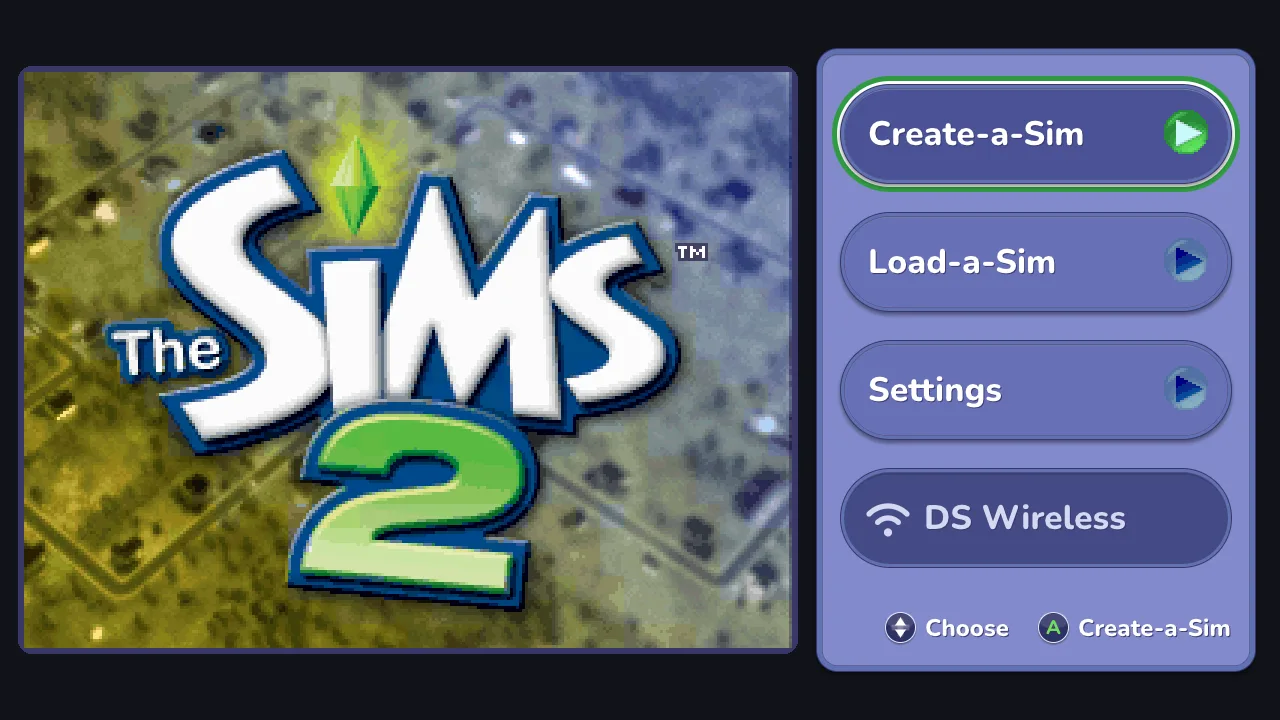
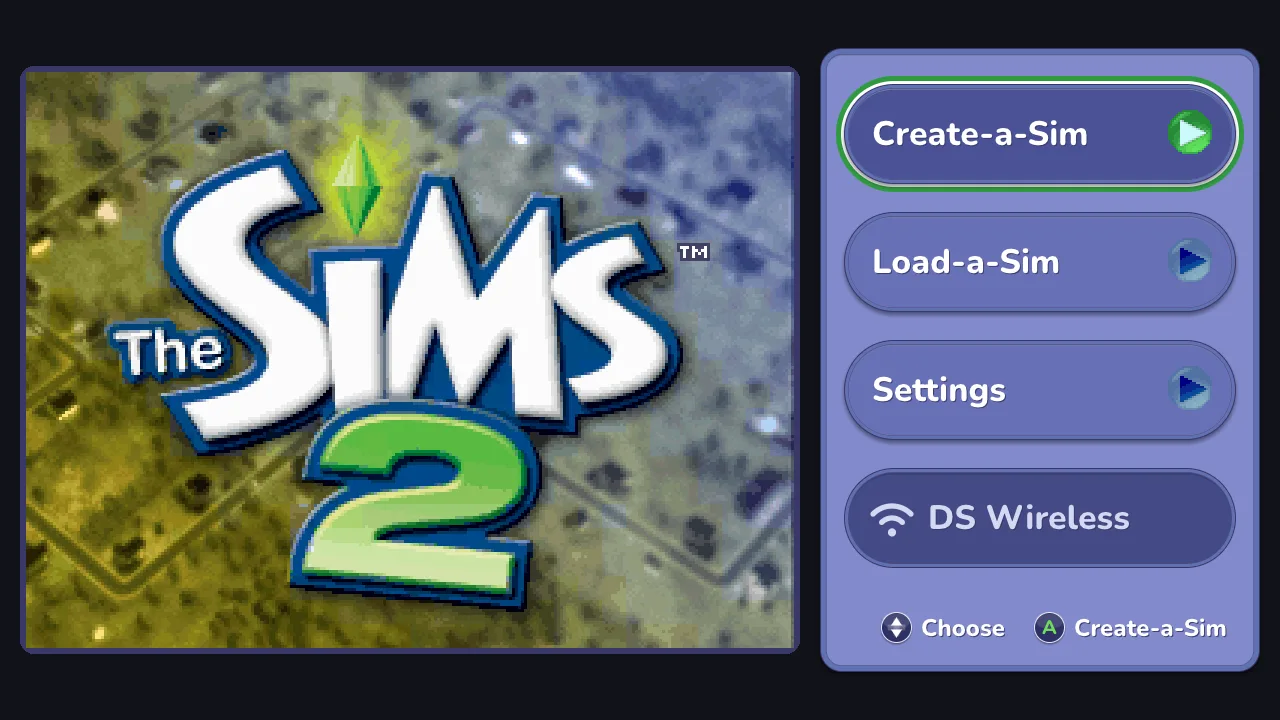
Take every picture again from the final build
All sixteen pictures in docs/screenshots from this branch's build with the dev notes' recipe and
the defaults' look (Pixel). Ten come out byte for byte as they were; six change: the launch
panel under its new title Sims 2 DS HD, Create-a-Sim and the main menu with their panels where
the front end now puts them, the town's prompt, the save states page's slot, and Settings now
on its Graphics tab (3D resolution by name: 384p). The pause menu's picture is headless, which
has no "Open the saves folder": its alt text says where it sits in the window. The recipe in
dev-notes and CONTRIBUTING says which clock and save each state takes, the Pockets run's
--console-menu, the Graphics tab's RB, and that the launch panel's folder is copied before the
pause menu's runs add the real ROM to its recent list.

diff --git a/docs/dev-notes.md b/docs/dev-notes.md
@@ -141,16 +141,19 @@ emptied), `F-hair-s3-40` (the Hair page, the third style), `F-face-5-40` (the fi
 cell); `s3` / `s4` are Create-a-Sim's Name page and Keep this Sim?. Pass `--clock "2026-01-01
 12:00"` to runs from the town states whose output is compared.
 
-The README's and the manual's pictures (`docs/screenshots`, 1280 × 720 webp, game screenshots are allowed): from a
-state on a scratch copy of the complete save, `--headless --frames 120 --layout console --compose --wide --res3d 2
---interp --game-pictures pixel --ui-scale 100 --shot-at 119` (Pixel: the default look) with the state's `--clock`: the town (`town.webp`:
-`L-sit-casino-none-250`, the world prompt after its steady frames), the HD menu (`sit-casino --console-menu
---console-focus 1`), `A-pk-cnt3-slot1` for Pockets (`--console-focus 0`), `s7` for the phone, `s5` the conversation,
+The README's and the manual's pictures (`docs/screenshots`, 1280 × 720 webp, game screenshots are allowed), all
+sixteen taken again together from one build: `--headless --frames 120 --layout console --compose --wide --res3d 2
+--interp --game-pictures pixel --ui-scale 100 --shot-at 119` (the defaults' look), the complete save's states on a
+scratch copy of it with its clock (`2026-11-05 12:05`), the town's states on a new save at 12:00, the hotel's at
+14:00: the town (`town.webp`: `L-sit-casino-none-250`, the world prompt after its steady frames), the HD menu
+(`sit-casino --console-menu --console-focus 1`), `A-pk-cnt3-slot1` for Pockets (`--console-menu --console-focus 0`), `s7` for the phone, `s5` the conversation,
 `sit-storebuy` the shop, `s3` Create-a-Sim, `s2` the main menu, `M-ci-occ-reg2` the Registry (14:00), `G-X-pirate`
 the cards, `G-A-para` the autopsy, `act-vacuum` (14:00) with `scripts/console/vacuum-pick.txt`, `--frames 300 --shot-at 270` (the gold ring in the focus ring, A's hint to take it); the pause menu's pages with `--frames 64 --shell PAGE
---shell-at 60 --shot-at 63` (the save states page with a `--data-dir` holding a slot), the launch panel with
+--shell-at 60 --shot-at 63` (the save states page with a `--data-dir` holding a slot; Settings on its Graphics tab:
+`--frames 70 --shot-at 69` and a script with `64 2 pad rb`; headless has no *Open the saves folder*, which the alt
+text says), the launch panel with
 `--launch --frames 4 --shot-at 2` and a `--data-dir` holding `recent.txt` and a suspend state (made by
-`scripts/shell/states.txt` from `s7`, then `quit.txt` from `sit-casino`, the ROM through a link named `The Sims 2.nds`); the pause menu's pages over `sit-casino`; the PNG saved with Pillow as webp (quality 82). Look at every picture before
+`scripts/shell/states.txt` from `s7`, then `quit.txt` from `sit-casino`, the ROM through a link named `The Sims 2.nds`; a copy of that folder, taken before the pause menu's runs add the real ROM to its recent list); the pause menu's pages over `sit-casino`; the PNG saved with Pillow as webp (quality 82). Look at every picture before
 using it: HD everywhere, no framed-screen picture, no glitch. Only the pictures README.md and docs/manual.md
 show are kept. Every unit test (`ninja -C build
 <name>_test`: layout, touchscript, hotspots, screens, navigator, controls, gamestate, romdata, uikit, pads, shell)

diff --git a/docs/manual.md b/docs/manual.md
@@ -37,7 +37,7 @@ is not The Sims 2 is said right there; another region's cartridge plays, but wit
 small screens (said once, until you press A).
 
 <p align="center">
-  <img src="screenshots/launch.webp" alt="The launch panel: Continue with a picture of where you quit, Choose a file, Language and Quit on the left; the controls on the right" width="700">
+  <img src="screenshots/launch.webp" alt="The launch panel under the title Sims 2 DS HD: Continue with a picture of where you quit, Choose a file, Language and Quit on the left; the controls on the right" width="700">
 </p>
 
 A ROM on the command line (`sims2hd path/to/your-sims2.nds`) skips the panel.
@@ -271,7 +271,7 @@ Closing the window asks the same question. Every question opens on No, and B is 
 closes with A or B.
 
 <p align="center">
-  <img src="screenshots/pause.webp" alt="The pause menu over the dimmed casino: Resume, Settings, Controls, Save states, Change game, Quit; the hints say how to resume and select" width="440">
+  <img src="screenshots/pause.webp" alt="The pause menu over the dimmed casino: Resume, Settings, Controls, Save states, Change game, Quit (in the window, Open the saves folder sits above Quit); the hints say how to resume and select" width="440">
   <img src="screenshots/save-states.webp" alt="The save states page: slot 1 with its picture and date, three empty slots, Undo the last load" width="440">
 </p>
 
@@ -287,7 +287,7 @@ defaults (it asks first, on No); window size and place and your keys and buttons
 Everything is kept between runs.
 
 <p align="center">
-  <img src="screenshots/settings.webp" alt="The pause menu's settings on the Display tab: Fullscreen, Interface size, Screen scaling, Game icons, Hide the idle pointer, and Layout under Advanced" width="700">
+  <img src="screenshots/settings.webp" alt="The pause menu's settings on the Graphics tab: Battery saver, 3D resolution at 384p, 60 fps, and Widescreen world under Advanced; the line under the list says what Battery saver does" width="700">
 </p>
 
 **Display**

diff --git a/CONTRIBUTING.md b/CONTRIBUTING.md
@@ -240,8 +240,9 @@ limit are in [docs/dev-notes.md](docs/dev-notes.md). In short:
 | [CHANGELOG.md](CHANGELOG.md), [SECURITY.md](SECURITY.md) | what changed; how to report a vulnerability |
 
 The pictures in `docs/screenshots` are 1280 × 720 webp (quality 82), made headless from save
-states: `--headless --layout console --compose --wide --res3d 2 --interp --game-pictures smooth
---ui-scale 100`, the PNG saved with Pillow. Only the pictures README.md and docs/manual.md show
+states with the defaults' look: `--headless --layout console --compose --wide --res3d 2 --interp
+--game-pictures pixel --ui-scale 100`, the PNG saved with Pillow; all sixteen are taken again
+together (the states and clocks: [docs/dev-notes.md](docs/dev-notes.md#build-states-and-checks)). Only the pictures README.md and docs/manual.md show
 are kept.
 
 ## Commits and pull requests

diff --git a/README.md b/README.md
@@ -43,7 +43,7 @@
   </tr>
   <tr>
     <td><img src="docs/screenshots/cards.webp" alt="Keelhaulin' Cards big in its frame, a card in the green focus ring, the score board at the right, X Draw a card and B Quit below" width="440"></td>
-    <td><img src="docs/screenshots/pause.webp" alt="The pause menu over the dimmed casino: Resume, Settings, Controls, Save states, Change game, Quit; the hints say how to resume and select" width="440"></td>
+    <td><img src="docs/screenshots/pause.webp" alt="The pause menu over the dimmed casino: Resume, Settings, Controls, Save states, Change game, Quit (in the window, Open the saves folder sits above Quit); the hints say how to resume and select" width="440"></td>
   </tr>
 </table>
 
